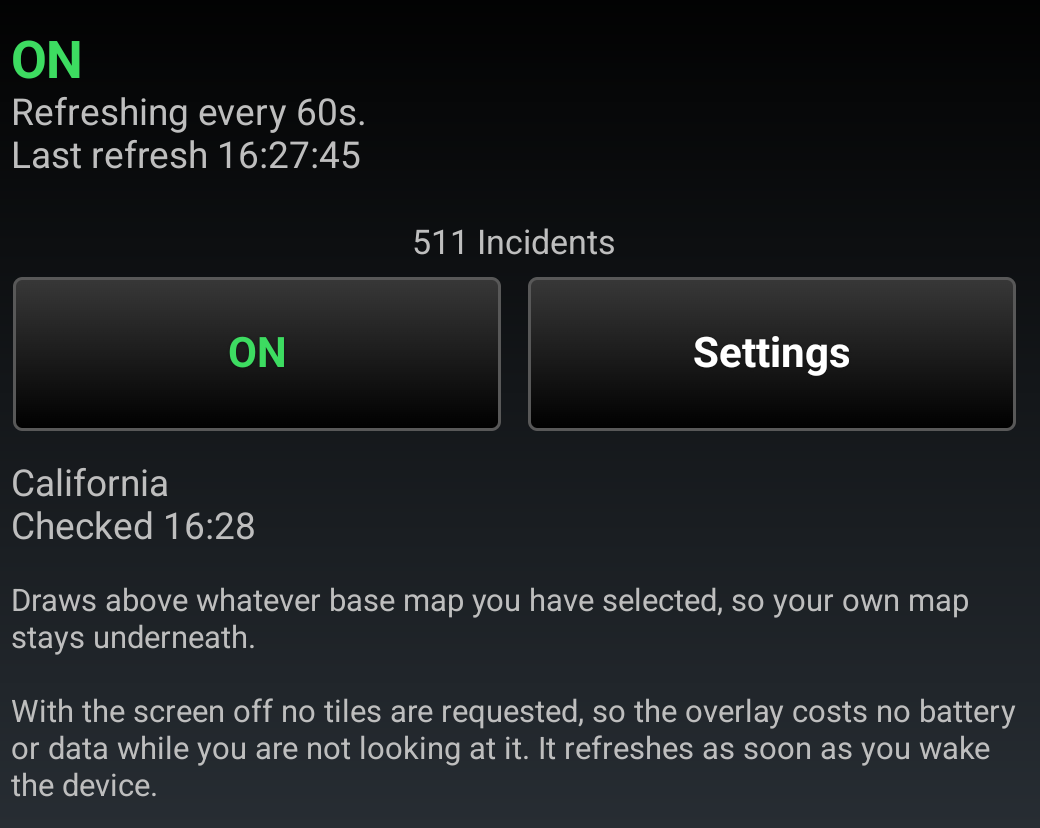
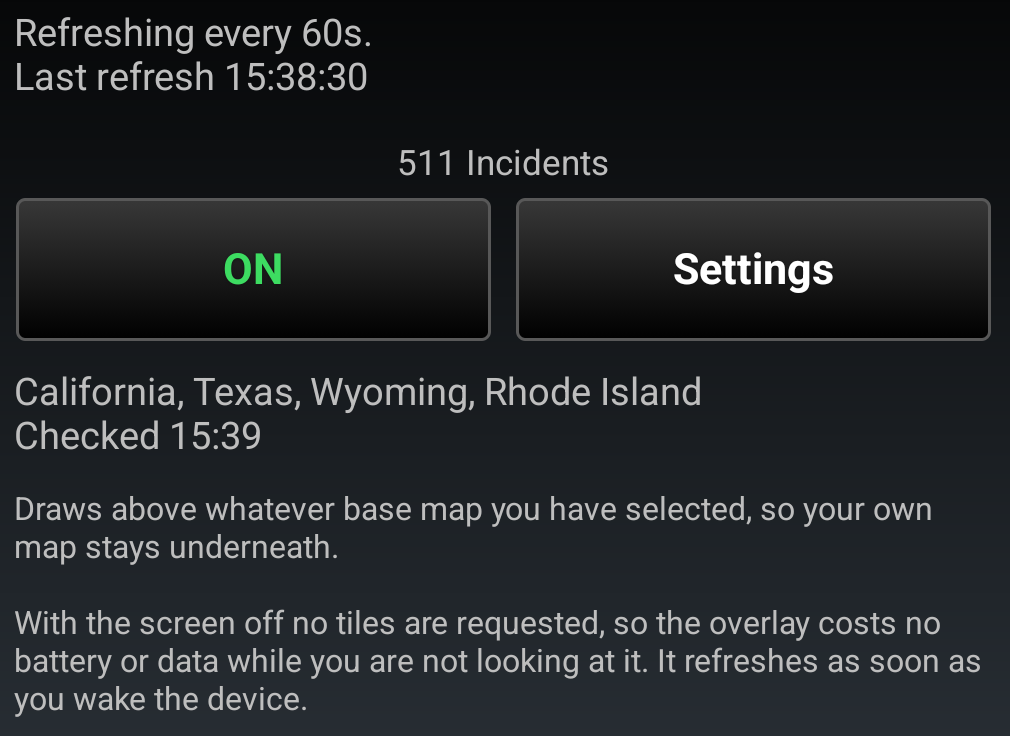
Traffic 0.9 docs: retake the main-screen pictures, drop the radial
The pane pictures lose the big ON/OFF word under the overlay buttons; a tap
now opens the details page directly, so the radial picture and its slide go.

diff --git a/plugins/Traffic/docs/USER_GUIDE.md b/plugins/Traffic/docs/USER_GUIDE.md
@@ -81,9 +81,9 @@ Tap the Traffic icon in the ATAK toolbar.
 - **511 Incidents** turns the incident icons on and off; they remember on or off
   by themselves. **Settings** opens their page.
 
-Each switch reads **ON** in green or **OFF** in red. The line under each part
-says what it is doing: when traffic tiles last arrived, and which states'
-incidents were last checked and when.
+Each switch reads **ON** in green or **OFF** in red. While a part is on, the
+line under it says what it is doing: when traffic tiles last arrived, and which
+states' incidents were last checked and when.
 
 ### Step 3 — How often traffic refreshes
 
@@ -162,11 +162,8 @@ so, so a hidden part of the map is never a surprise.
 
 ### Step 8 — Tap an incident
 
-![The radial menu around a crash, its title above it](screenshots/12_radial.png)
-
-Tap an icon: its title shows above it with the menu around it. The list item at
-the bottom opens the details. Where icons sit on top of each other, ATAK first
-asks which one you meant.
+Tap an icon and its details open in the side pane. Where icons sit on top of
+each other, ATAK first asks which one you meant.
 
 ![A California Highway Patrol crash: title, place, reported and updated times, and the units timeline](screenshots/13_crash_details.png)
 
